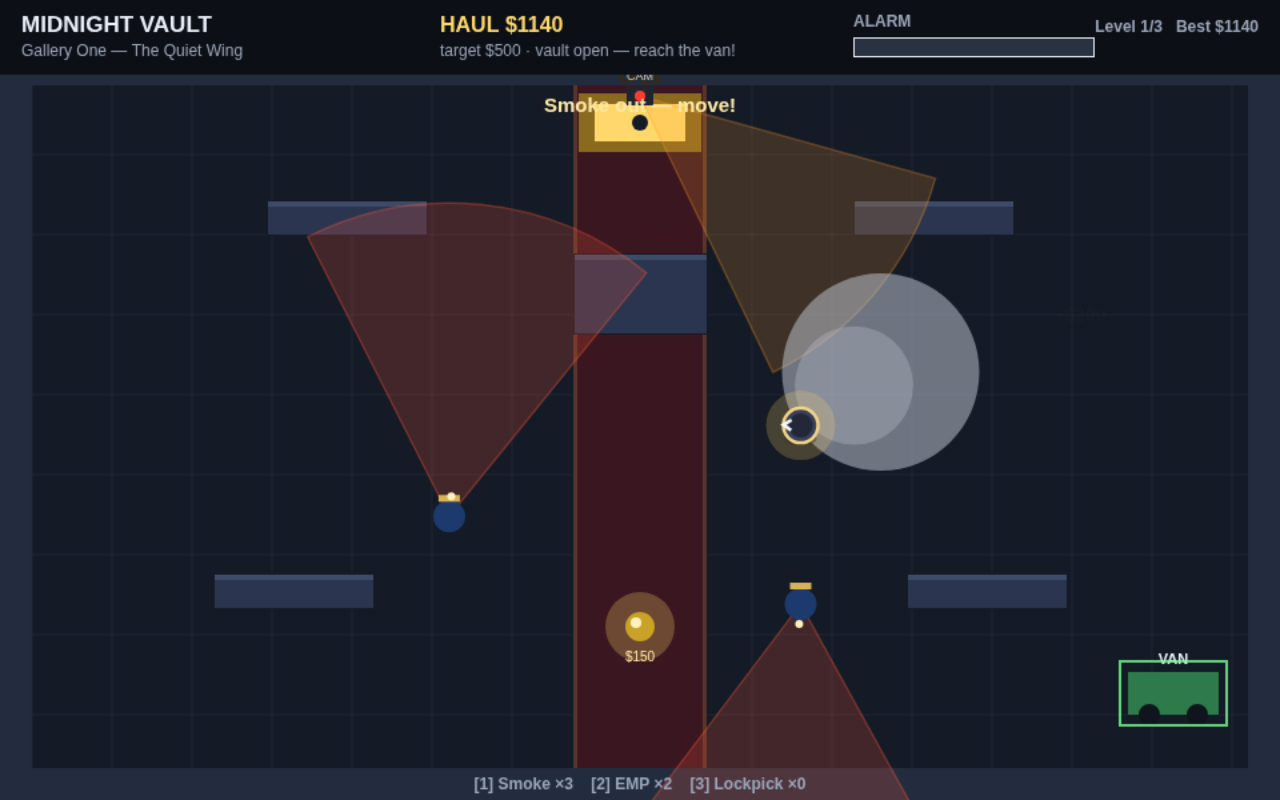
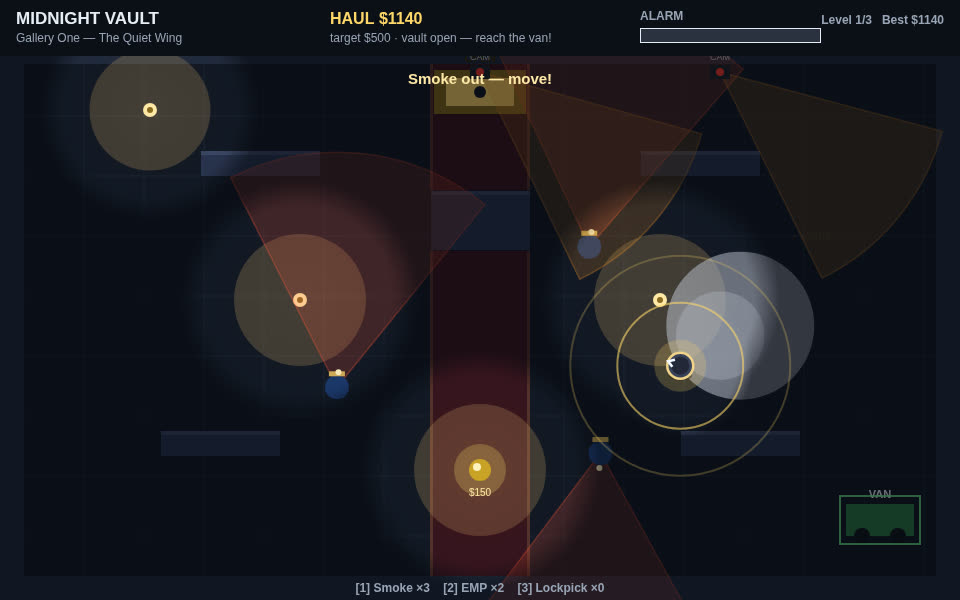
Heist r2: light/shadow system, sound system, more guards/cameras

diff --git a/game/src/render.js b/game/src/render.js
@@ -30,6 +30,75 @@ function drawCone(ctx, cone, color, alpha) {
   ctx.restore();
 }
 
+function drawLamps(ctx, state) {
+  for (const lamp of state.lamps) {
+    if (lamp.lit) {
+      // Warm halo so the pool reads even before the darkness pass.
+      ctx.save();
+      ctx.globalAlpha = 0.20;
+      ctx.fillStyle = '#ffcf7a';
+      ctx.beginPath(); ctx.arc(lamp.x, lamp.y, lamp.r * 0.55, 0, Math.PI * 2); ctx.fill();
+      ctx.restore();
+      ctx.fillStyle = '#ffe9a8';
+      ctx.beginPath(); ctx.arc(lamp.x, lamp.y, 7, 0, Math.PI * 2); ctx.fill();
+      ctx.fillStyle = '#8a6a1f';
+      ctx.beginPath(); ctx.arc(lamp.x, lamp.y, 3, 0, Math.PI * 2); ctx.fill();
+    } else {
+      // Snuffed: a cold, dead fixture.
+      ctx.fillStyle = '#3a4152';
+      ctx.beginPath(); ctx.arc(lamp.x, lamp.y, 7, 0, Math.PI * 2); ctx.fill();
+      ctx.fillStyle = '#1a1f2a';
+      ctx.beginPath(); ctx.arc(lamp.x, lamp.y, 3, 0, Math.PI * 2); ctx.fill();
+    }
+  }
+}
+
+function drawNoiseRings(ctx, state) {
+  for (const n of state.noises) {
+    const life = Math.max(0, n.t / 0.9);
+    ctx.save();
+    ctx.globalAlpha = 0.75 * life;
+    ctx.strokeStyle = '#ffd76a';
+    ctx.lineWidth = 2;
+    // The ring expands to its full hearing radius, then fades.
+    ctx.beginPath(); ctx.arc(n.x, n.y, n.r * (1 - life * 0.55), 0, Math.PI * 2); ctx.stroke();
+    ctx.globalAlpha = 0.3 * life;
+    ctx.beginPath(); ctx.arc(n.x, n.y, n.r, 0, Math.PI * 2); ctx.stroke();
+    ctx.restore();
+  }
+}
+
+/** Night falls over the room: darkness everywhere except the lit lamp
+ *  pools and a small pool around the thief, who must always read.
+ *  The dark layer is built on an offscreen canvas so the light pools
+ *  punch holes in the darkness only — punching them on the main canvas
+ *  would erase the room itself and leave black holes. */
+let darkLayer = null;
+function drawDarkness(ctx, state) {
+  if (!darkLayer) {
+    darkLayer = document.createElement('canvas');
+    darkLayer.width = VIEW.width;
+    darkLayer.height = VIEW.height;
+  }
+  const dctx = darkLayer.getContext('2d');
+  dctx.clearRect(0, 0, VIEW.width, VIEW.height);
+  dctx.fillStyle = 'rgba(4,6,12,0.55)';
+  dctx.fillRect(0, 56, VIEW.width, VIEW.height - 56);
+  dctx.globalCompositeOperation = 'destination-out';
+  const pool = (x, y, r) => {
+    const g = dctx.createRadialGradient(x, y, r * 0.15, x, y, r);
+    g.addColorStop(0, 'rgba(0,0,0,1)');
+    g.addColorStop(0.75, 'rgba(0,0,0,0.9)');
+    g.addColorStop(1, 'rgba(0,0,0,0)');
+    dctx.fillStyle = g;
+    dctx.beginPath(); dctx.arc(x, y, r, 0, Math.PI * 2); dctx.fill();
+  };
+  for (const lamp of state.lamps) if (lamp.lit) pool(lamp.x, lamp.y, lamp.r);
+  pool(state.player.x, state.player.y, 72);
+  dctx.globalCompositeOperation = 'source-over';
+  ctx.drawImage(darkLayer, 0, 0);
+}
+
 function drawRoom(ctx, state) {
   const level = state.level;
   // Night floor with a marble sheen.
@@ -90,6 +159,7 @@ function drawRoom(ctx, state) {
     ctx.lineWidth = 2;
     ctx.strokeRect(e.x - 40, e.y - 24, 80, 48);
   }
+  drawLamps(ctx, state);
 }
 
 function drawLoot(ctx, state) {
@@ -313,7 +383,7 @@ export function createRenderer(canvas) {
           'and slip out to the getaway van — without the guards or cameras catching you.',
           '',
           'WASD / arrows — move    Shift — sneak    Click — throw tool',
-          'E / Space — grab loot · pick vault · escape    1/2/3 — choose tool    P — pause',
+          'E / Space — grab loot · snuff lamp · pick vault · escape    1/2/3 — choose tool    P — pause',
           '',
           'Press Enter or click to start. Steal the Star Sapphire first.',
         ]);
@@ -325,6 +395,8 @@ export function createRenderer(canvas) {
       drawCameras(ctx, state);
       drawSmoke(ctx, state);
       drawPlayer(ctx, state);
+      drawDarkness(ctx, state);
+      drawNoiseRings(ctx, state);
       drawFloaters(ctx, state);
       drawHud(ctx, state, info);
       if (screen === SCREEN_PAUSED) {

diff --git a/game/src/config.js b/game/src/config.js
@@ -45,9 +45,20 @@ export const LEVELS = [
     guards: [
       { waypoints: [[300, 300], [600, 300], [600, 460], [300, 460]], speed: 62 },
       { waypoints: [[360, 170], [360, 480]], speed: 55 },
+      { waypoints: [[600, 170], [600, 420]], speed: 58 },
     ],
     cameras: [
       { x: 480, y: 72, base: Math.PI / 2, sweep: 0.9, speed: 0.55 },
+      { x: 720, y: 72, base: Math.PI / 2, sweep: 0.9, speed: 0.6 },
+    ],
+    // Warm ceiling lamps: pools of light over open floor. A lit lamp's pool
+    // is where guards spot the thief at full range; darkness shrinks it.
+    // Press E beside a lit lamp to snuff it.
+    lamps: [
+      { x: 300, y: 300, r: 120, lit: true },
+      { x: 660, y: 300, r: 120, lit: true },
+      { x: 480, y: 470, r: 120, lit: true },
+      { x: 150, y: 110, r: 110, lit: true },
     ],
     loot: [
       { x: 150, y: 110, kind: 'painting', value: 120, label: 'Moonlit Canal' },
@@ -75,12 +86,20 @@ export const LEVELS = [
     ],
     guards: [
       { waypoints: [[240, 200], [720, 200], [720, 480], [240, 480]], speed: 74 },
-      { waypoints: [[480, 150], [480, 280], [700, 300], [700, 480]], speed: 68 },
+      { waypoints: [[480, 150], [480, 280], [700, 300], [700, 480], [700, 150]], speed: 68 },
       { waypoints: [[250, 150], [250, 480]], speed: 66 },
+      { waypoints: [[700, 420], [700, 480], [480, 480], [480, 420]], speed: 62 },
     ],
     cameras: [
       { x: 240, y: 72, base: Math.PI / 2, sweep: 1.0, speed: 0.7 },
       { x: 720, y: 72, base: Math.PI / 2, sweep: 1.0, speed: 0.6 },
+      { x: 480, y: 72, base: Math.PI / 2, sweep: 1.0, speed: 0.65 },
+    ],
+    lamps: [
+      { x: 240, y: 200, r: 120, lit: true },
+      { x: 720, y: 200, r: 120, lit: true },
+      { x: 480, y: 470, r: 120, lit: true },
+      { x: 480, y: 150, r: 110, lit: true },
     ],
     loot: [
       { x: 120, y: 110, kind: 'painting', value: 150, label: 'Storm over Harbour' },
@@ -111,12 +130,21 @@ export const LEVELS = [
       { waypoints: [[260, 220], [700, 220], [700, 480], [260, 480]], speed: 88 },
       { waypoints: [[360, 420], [600, 420]], speed: 82 },
       { waypoints: [[150, 200], [480, 200], [810, 200]], speed: 80 },
-      { waypoints: [[700, 200], [700, 460], [480, 460]], speed: 76 },
+      { waypoints: [[700, 200], [700, 460], [480, 460], [260, 460], [260, 200]], speed: 76 },
+      { waypoints: [[150, 300], [150, 410], [260, 410]], speed: 72 },
     ],
     cameras: [
       { x: 160, y: 72, base: Math.PI / 2, sweep: 1.1, speed: 0.85 },
       { x: 480, y: 72, base: Math.PI / 2, sweep: 0.9, speed: 0.7 },
       { x: 800, y: 72, base: Math.PI / 2, sweep: 1.1, speed: 0.8 },
+      { x: 320, y: 72, base: Math.PI / 2, sweep: 1.0, speed: 0.75 },
+    ],
+    lamps: [
+      { x: 260, y: 220, r: 120, lit: true },
+      { x: 700, y: 220, r: 120, lit: true },
+      { x: 480, y: 520, r: 120, lit: true },
+      { x: 150, y: 300, r: 110, lit: true },
+      { x: 810, y: 300, r: 110, lit: true },
     ],
     loot: [
       { x: 110, y: 100, kind: 'painting', value: 200, label: 'Night Watch II' },

diff --git a/game/src/guards.js b/game/src/guards.js
@@ -3,7 +3,7 @@
 // its gaze along the direction of travel. When the alarm is full it converges
 // on the thief; a smoke pellet stuns it in place.
 import { GUARD_RANGE } from './config.js';
-import { inSmoke, lineOfSight, moveWithWalls } from './world.js';
+import { inSmoke, isLit, lineOfSight, moveWithWalls } from './world.js';
 
 const GUARD_FOV = 1.15; // radians, half-angle ~33 degrees
 const PAUSE_AT_WAYPOINT = 0.9;
@@ -15,7 +15,9 @@ function angleDiff(a, b) {
   return d;
 }
 
-/** Can this guard see the thief right now? Sneaking shrinks its range. */
+/** Can this guard see the thief right now? Sneaking shrinks its range,
+ *  and so does darkness: a thief outside every lamp pool is much harder
+ *  to spot. */
 export function guardSeesPlayer(state, guard) {
   const p = state.player;
   if (guard.stunT > 0) return false;
@@ -23,7 +25,8 @@ export function guardSeesPlayer(state, guard) {
   const dx = p.x - guard.x;
   const dy = p.y - guard.y;
   const dist = Math.hypot(dx, dy);
-  const range = p.sneaking ? GUARD_RANGE * 0.62 : GUARD_RANGE;
+  let range = p.sneaking ? GUARD_RANGE * 0.62 : GUARD_RANGE;
+  if (!isLit(state, p.x, p.y)) range *= 0.55;
   if (dist > range) return false;
   if (Math.abs(angleDiff(Math.atan2(dy, dx), guard.angle)) > GUARD_FOV / 2 + 0.12) return false;
   return lineOfSight(state, guard.x, guard.y, p.x, p.y);
@@ -33,11 +36,24 @@ export function guardCone(state, guard) {
   return { x: guard.x, y: guard.y, angle: guard.angle, range: GUARD_RANGE, fov: GUARD_FOV };
 }
 
-/** Advance every guard one step: patrol, pause, chase, or stand stunned. */
+/** Advance every guard one step: patrol, pause, investigate a noise,
+ *  chase, or stand stunned. */
 export function stepGuards(state, dt) {
   for (const guard of state.guards) {
     if (guard.stunT > 0) { guard.stunT -= dt; continue; }
     guard.alertT = Math.max(0, guard.alertT - dt);
+    // A noise inside hearing range pulls a patrolling guard over to look.
+    if (guard.mode === 'patrol') {
+      for (const n of state.noises) {
+        if (Math.hypot(n.x - guard.x, n.y - guard.y) < n.r + 60) {
+          guard.mode = 'investigate';
+          guard.investigateX = n.x;
+          guard.investigateY = n.y;
+          guard.alertT = 1.5;
+          break;
+        }
+      }
+    }
     let tx;
     let ty;
     let speed = guard.speed;
@@ -46,6 +62,13 @@ export function stepGuards(state, dt) {
       tx = state.player.x; ty = state.player.y; speed = guard.speed * 1.55;
       guard.chaseT += dt;
       if (state.alarm < 40 || guard.chaseT > 6) { guard.mode = 'patrol'; guard.chaseT = 0; }
+    } else if (guard.mode === 'investigate') {
+      tx = guard.investigateX; ty = guard.investigateY;
+      if (Math.hypot(tx - guard.x, ty - guard.y) < 10) {
+        // Arrived: look around a moment, then back to the patrol.
+        guard.mode = 'patrol';
+        guard.pauseT = 1.5;
+      }
     } else {
       const target = guard.waypoints[guard.wp];
       tx = target[0]; ty = target[1];

diff --git a/game/src/world.js b/game/src/world.js
@@ -23,13 +23,16 @@ export function createLevelState(levelIndex) {
     guards: level.guards.map((g) => ({
       waypoints: g.waypoints, speed: g.speed,
       x: g.waypoints[0][0], y: g.waypoints[0][1],
-      wp: 1, angle: 0, mode: 'patrol', stunT: 0, chaseT: 0, alertT: 0,
+      wp: 1, angle: 0, mode: 'patrol', stunT: 0, chaseT: 0, alertT: 0, pauseT: 0,
+      investigateX: 0, investigateY: 0,
     })),
     cameras: level.cameras.map((c) => ({
       x: c.x, y: c.y, base: c.base, sweep: c.sweep, speed: c.speed,
       angle: c.base, phase: Math.random() * Math.PI * 2, disabledT: 0,
     })),
     loot: level.loot.map((l) => ({ ...l, taken: false })),
+    lamps: level.lamps.map((l) => ({ ...l })),
+    noises: [],
     smoke: [],
     darts: [],
     floaters: [],
@@ -93,6 +96,33 @@ export function inSmoke(state, x, y) {
     if (Math.hypot(x - s.x, y - s.y) < s.r) return true;
   }
   return false;
+}
+
+/** True when the point is lit by any lit lamp (walls block light). */
+export function isLit(state, x, y) {
+  for (const lamp of state.lamps) {
+    if (!lamp.lit) continue;
+    if (Math.hypot(x - lamp.x, y - lamp.y) < lamp.r && lineOfSight(state, lamp.x, lamp.y, x, y)) return true;
+  }
+  return false;
+}
+
+/** The lit lamp nearest the thief within reach, for snuffing with E. */
+export function nearestLamp(state) {
+  const p = state.player;
+  let best = null;
+  let bestD = 40;
+  for (const lamp of state.lamps) {
+    if (!lamp.lit) continue;
+    const d = Math.hypot(lamp.x - p.x, lamp.y - p.y);
+    if (d < bestD) { bestD = d; best = lamp; }
+  }
+  return best;
+}
+
+/** A footstep's sound: guards in hearing range come to look. */
+export function addNoise(state, x, y, r) {
+  state.noises.push({ x, y, r, t: 0.9 });
 }
 
 export function nearestLoot(state) {

diff --git a/game/src/player.js b/game/src/player.js
@@ -2,7 +2,7 @@
 // Moving is quiet on the carpet and loud on the marble; sneaking is slower
 // but harder to spot. Tools are thrown at the mouse cursor.
 import { EMP_SECONDS, SNEAK_SPEED, TOOL, WALK_SPEED } from './config.js';
-import { addFloater, hitsWall, moveWithWalls, nearExit, nearVault, nearestLoot, setMessage } from './world.js';
+import { addFloater, addNoise, hitsWall, moveWithWalls, nearExit, nearVault, nearestLamp, nearestLoot, setMessage } from './world.js';
 import { disableNearestCamera } from './cameras.js';
 
 export function stepPlayer(state, input, dt, sounds) {
@@ -19,6 +19,10 @@ export function stepPlayer(state, input, dt, sounds) {
     if (p.stepT <= 0) {
       p.stepT = sneak ? 0.55 : 0.34;
       sounds.footstep(sneak);
+      // Every footstep is a noise guards can hear: loud on the walk,
+      // a whisper on the sneak.
+      addNoise(state, p.x, p.y, sneak ? 45 : 110);
+      if (sounds.thud) sounds.thud(sneak);
     }
   }
   const sel = input.takeToolSelect();
@@ -75,6 +79,14 @@ export function interact(state, sounds) {
     sounds.vault();
     setMessage(state, `${state.level.vault.label} is yours — get to the van!`, 3);
     return 'vault';
+  }
+  const lamp = nearestLamp(state);
+  if (lamp) {
+    lamp.lit = false;
+    addFloater(state, lamp.x, lamp.y - 18, 'Lamp out', '#ffb46a');
+    sounds.click();
+    setMessage(state, 'Lamp out — the dark is yours.', 1.6);
+    return 'lamp';
   }
   if (nearExit(state)) {
     if (!state.vaultOpen) { setMessage(state, `Grab the ${state.level.vault.label} first!`, 2); sounds.deny(); return 'need-vault'; }

diff --git a/game/src/shots.js b/game/src/shots.js
@@ -16,6 +16,7 @@ function silentSounds() {
   return {
     footstep: noop, pickup: noop, vault: noop, smoke: noop, emp: noop,
     deny: noop, spotted: noop, click: noop, win: noop, lose: noop, heartbeat: noop,
+    thud: noop,
   };
 }
 
@@ -56,6 +57,8 @@ function runSteps(state, seconds, pilot) {
     stepAlarm(state, STEP, sounds);
     for (const s of state.smoke) s.t -= STEP;
     state.smoke = state.smoke.filter((s) => s.t > 0);
+    for (const n of state.noises) n.t -= STEP;
+    state.noises = state.noises.filter((n) => n.t > 0);
     for (const f of state.floaters) f.t += STEP;
     state.floaters = state.floaters.filter((f) => f.t < 1.4);
     if (state.messageT > 0) state.messageT -= STEP;
@@ -99,6 +102,8 @@ export function stageShot(name, state) {
     const sx = Math.min(860, Math.max(100, state.player.x + 60));
     const sy = Math.min(500, Math.max(120, state.player.y - 40));
     state.smoke.push({ x: sx, y: sy, r: 74, t: 2 });
+    // A fresh footstep noise ring at the thief's feet, mid-expansion.
+    state.noises.push({ x: state.player.x, y: state.player.y, r: 110, t: 0.7 });
     state.message = 'Smoke out — move!';
     state.messageT = 99;
     // Always the live room, never an overlay: the shot must show the heist.

diff --git a/game/src/audio.js b/game/src/audio.js
@@ -55,6 +55,8 @@ export function createSounds() {
   return {
     unlock() { ensure(); },
     footstep(sneak) { noise(0.07, sneak ? 0.03 : 0.07, sneak ? 400 : 900); },
+    /** A soft thud under each footstep — the sound guards hear. */
+    thud(sneak) { noise(0.12, sneak ? 0.02 : 0.06, 300); },
     pickup() { tone(660, 0.12, 'triangle', 0.14); setTimeout(() => tone(990, 0.18, 'triangle', 0.12), 70); },
     vault() { tone(220, 0.3, 'triangle', 0.14, 440); setTimeout(() => tone(880, 0.4, 'sine', 0.12), 160); },
     smoke() { noise(0.5, 0.12, 500); },

diff --git a/game/src/main.js b/game/src/main.js
@@ -89,6 +89,8 @@ function runGame() {
     stepAlarm(state, dt, sounds);
     for (const s of state.smoke) s.t -= dt;
     state.smoke = state.smoke.filter((s) => s.t > 0);
+    for (const n of state.noises) n.t -= dt;
+    state.noises = state.noises.filter((n) => n.t > 0);
     for (const f of state.floaters) f.t += dt;
     state.floaters = state.floaters.filter((f) => f.t < 1.4);
     if (state.messageT > 0) state.messageT -= dt;
